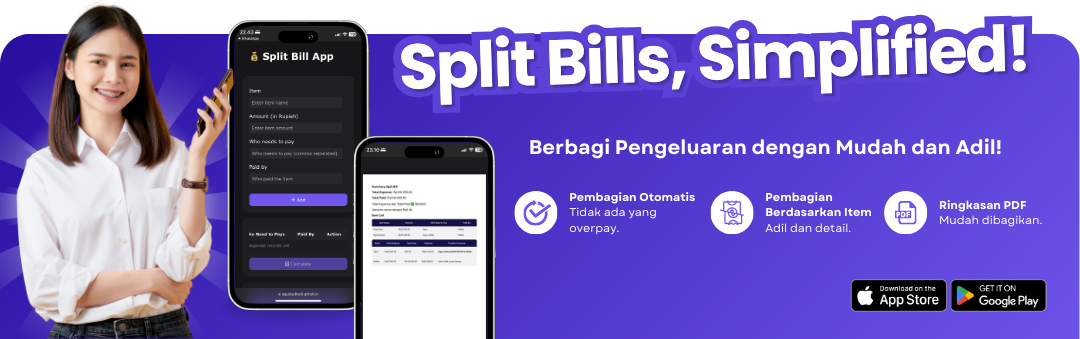
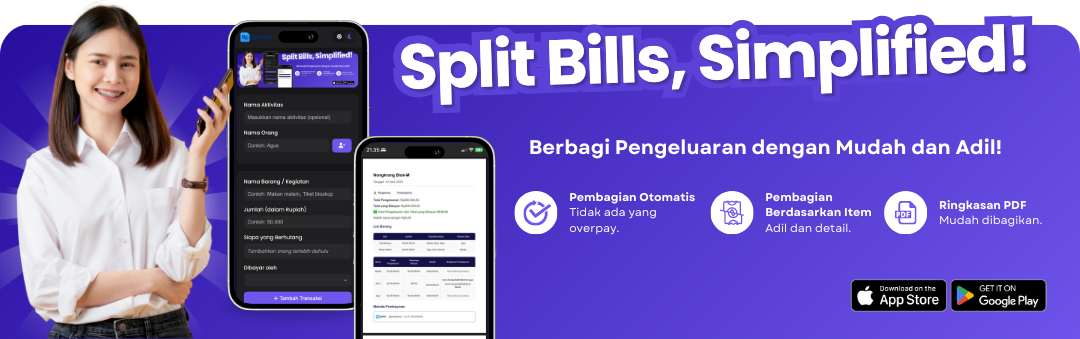
feat: handle input discount, show diskon label, improve sharing & visuals
- Support negative amount input to represent discounts (e.g., -10000)
- Add Diskon label to expense table for negative items
- Update WhatsApp share message to include diskon labels
- Fix WhatsApp copy for better clarity and completeness
- Add proper meta image tag for better link preview on social media
- Resize logo to be smaller for cleaner UI
- Tweak some copy and label formatting

diff --git a/js/inputForm.js b/js/inputForm.js
@@ -144,24 +144,42 @@ function getColorForName(name) {
 const amountFormattedInput = document.getElementById("amountFormatted");
 const amountHiddenInput = document.getElementById("amount");
 
+// new fixing 10 April 2025 handle negative value for input amount (handle case discount)
 amountFormattedInput.addEventListener("input", () => {
-  // Ambil angka dari input
-  let rawValue = amountFormattedInput.value.replace(/[^0-9]/g, "");
+  let inputValue = amountFormattedInput.value;
 
-  // Simpan angka murni di input tersembunyi
-  amountHiddenInput.value = rawValue;
+  // Jika hanya "-" saja, jangan proses format
+  if (inputValue === "-") {
+    amountHiddenInput.value = "";
+    return;
+  }
+  // Cek apakah nilai diawali dengan minus
+  const isNegative = inputValue.trim().startsWith("-");
+  // Ambil hanya digit
+  let numericOnly = inputValue.replace(/[^0-9]/g, "");
+  if (numericOnly === "") {
+    amountHiddenInput.value = "";
+    amountFormattedInput.value = isNegative ? "-" : "";
+    return;
+  }
+  // Tambahkan minus jika ada
+  if (isNegative) numericOnly = "-" + numericOnly;
 
-  // Format ke IDR
-  amountFormattedInput.value = formatToIDR(rawValue);
+  amountHiddenInput.value = numericOnly;
+  amountFormattedInput.value = formatToIDR(numericOnly);
 });
 
 function formatToIDR(number) {
   if (!number) return "";
-  return new Intl.NumberFormat("id-ID", {
+  const isNegative = parseFloat(number) < 0;
+  const absolute = Math.abs(parseFloat(number));
+  const formatted = new Intl.NumberFormat("id-ID", {
     style: "currency",
     currency: "IDR",
     minimumFractionDigits: 0,
-  }).format(number);
+  }).format(absolute);
+
+  return isNegative ? `- ${formatted}` : formatted;
 }
 
 // handle payment method change

diff --git a/index.html b/index.html
@@ -28,7 +28,7 @@
     />
     <meta
       property="og:image"
-      content="https://agusbudbudi.github.io/split-bill-app/img/preview.jpg"
+      content="https://agusbudbudi.github.io/split-bill-app/img/preview.png"
     />
 
     <!-- Twitter -->
@@ -47,7 +47,7 @@
     />
     <meta
       property="twitter:image"
-      content="https://agusbudbudi.github.io/split-bill-app/img/preview.jpg"
+      content="https://agusbudbudi.github.io/split-bill-app/img/preview.png"
     />
 
     <title>Split Bill</title>
@@ -105,7 +105,7 @@
             />
 
             <!-- Section Add People -->
-            <label for="personName">Nama Orang</label>
+            <label for="personName">Tambah Teman</label>
             <div style="display: flex; gap: 8px">
               <input type="text" id="personName" placeholder="Contoh: Agus" />
               <button class="btn-add-person" onclick="addPerson()">
@@ -131,7 +131,7 @@
         <div class="card-container">
           <div id="input-section">
             <!-- Item & Amount -->
-            <label for="item">Nama Barang / Kegiatan</label>
+            <label for="item">Nama Item</label>
             <input
               type="text"
               id="item"
@@ -272,7 +272,7 @@
             </button>
             <button onclick="shareToWhatsApp()" class="shareToWhatsApp">
               <i class="fa-brands fa-whatsapp"></i>
-              Bagikan ke WhatsApp
+              Share ke WA
             </button>
           </div>
         </div>

diff --git a/js/script.js b/js/script.js
@@ -3,10 +3,12 @@ let itemCount = 0;
 
 function addExpense() {
   const item = document.getElementById("item").value;
+  const amountValue = document.getElementById("amount").value; // handle negative amount
   const amount = parseFloat(document.getElementById("amount").value);
   const paidBy = document.getElementById("paidBy").value.trim();
 
-  if (!item || !amount || who.length === 0 || !paidBy) {
+  //add isNaN buat handle negative amount
+  if (!item || isNaN(!amount) || who.length === 0 || !paidBy) {
     alert("Please fill all fields correctly");
     return;
   }
@@ -54,7 +56,15 @@ function updateTable() {
     expenses.forEach((expense, index) => {
       const row = `<tr>
                         <td>${expense.item}</td>
-                        <td>${formatCurrency(expense.amount)}</td>
+                        
+                        <td>
+                          ${formatCurrency(expense.amount)}
+                          ${
+                            expense.amount < 0
+                              ? '<span class="discount-label">Diskon</span>'
+                              : ""
+                          }
+                        </td>
                         <td>${expense.who.join(", ")}</td>
                         <td>${expense.paidBy}</td>
                         <td>

diff --git a/js/shareSummary.js b/js/shareSummary.js
@@ -32,11 +32,22 @@ function shareToWhatsApp() {
     const imgSrc = selectedCard.querySelector("img")?.getAttribute("src") || "";
     const methodMatch = imgSrc.match(/\/?([^\/]+)\.png$/); // ambil nama file tanpa .png
     const method = methodMatch ? methodMatch[1] : "Tidak diketahui";
+    const methodFormatted = method.charAt(0).toUpperCase() + method.slice(1); // Kapitalisasi
+
     const name =
       selectedCard.querySelector("p:nth-of-type(1)")?.innerText || "";
-    const phone =
+    const secondLine =
       selectedCard.querySelector("p:nth-of-type(2)")?.innerText || "";
-    paymentText = `- ${name} (${method}): ${phone}`;
+    const thirdLine =
+      selectedCard.querySelector("p:nth-of-type(3)")?.innerText || "";
+
+    if (method === "banktransfer") {
+      const accountNumber = secondLine.replace("Rek: ", "");
+      const bankName = thirdLine.replace("Bank: ", "");
+      paymentText = `- ${name} (${methodFormatted} - ${bankName}, No Rek: *${accountNumber}*)`;
+    } else {
+      paymentText = `- ${name} (${methodFormatted}, *${secondLine}*)`;
+    }
   }
 
   const message = `*Split Bill - Simplified*

diff --git a/js/summary.js b/js/summary.js
@@ -134,7 +134,14 @@ function displaySummary(
     itemTable += `
             <tr>
               <td>${item}</td>
-              <td>${formatCurrency(amount)}</td>
+                 <td>
+                    ${formatCurrency(amount)}
+                    ${
+                      amount < 0
+                        ? '<span class="discount-label">Diskon</span>'
+                        : ""
+                    }
+                  </td>
               <td>${who.join(", ")}</td>
               <td>${paidBy}</td>
             </tr>
@@ -145,7 +152,7 @@ function displaySummary(
 
   // Pisahkan <h3> dari scrollable container
   summaryDiv.innerHTML += `
-  <h3>List Barang</h3>
+  <h3>List Item</h3>
   <div class="scrollable-table-container">
     ${itemTable}
   </div>

diff --git a/css/table.css b/css/table.css
@@ -46,3 +46,13 @@ td {
   border: 1px solid var(--table-border-color);
   padding: 5px 20px 5px 20px;
 }
+
+.discount-label {
+  display: inline-block;
+  background-color: #ffe0e0;
+  color: #cc0000;
+  font-size: 0.75rem;
+  padding: 2px 6px;
+  border-radius: 6px;
+  margin-left: 4px;
+}

diff --git a/css/ui.css b/css/ui.css
@@ -1,5 +1,10 @@
 /* testing */
 
+.logo {
+  max-width: 100px;
+  height: auto;
+}
+
 .theme-toggle {
   position: relative;
   display: inline-block;
